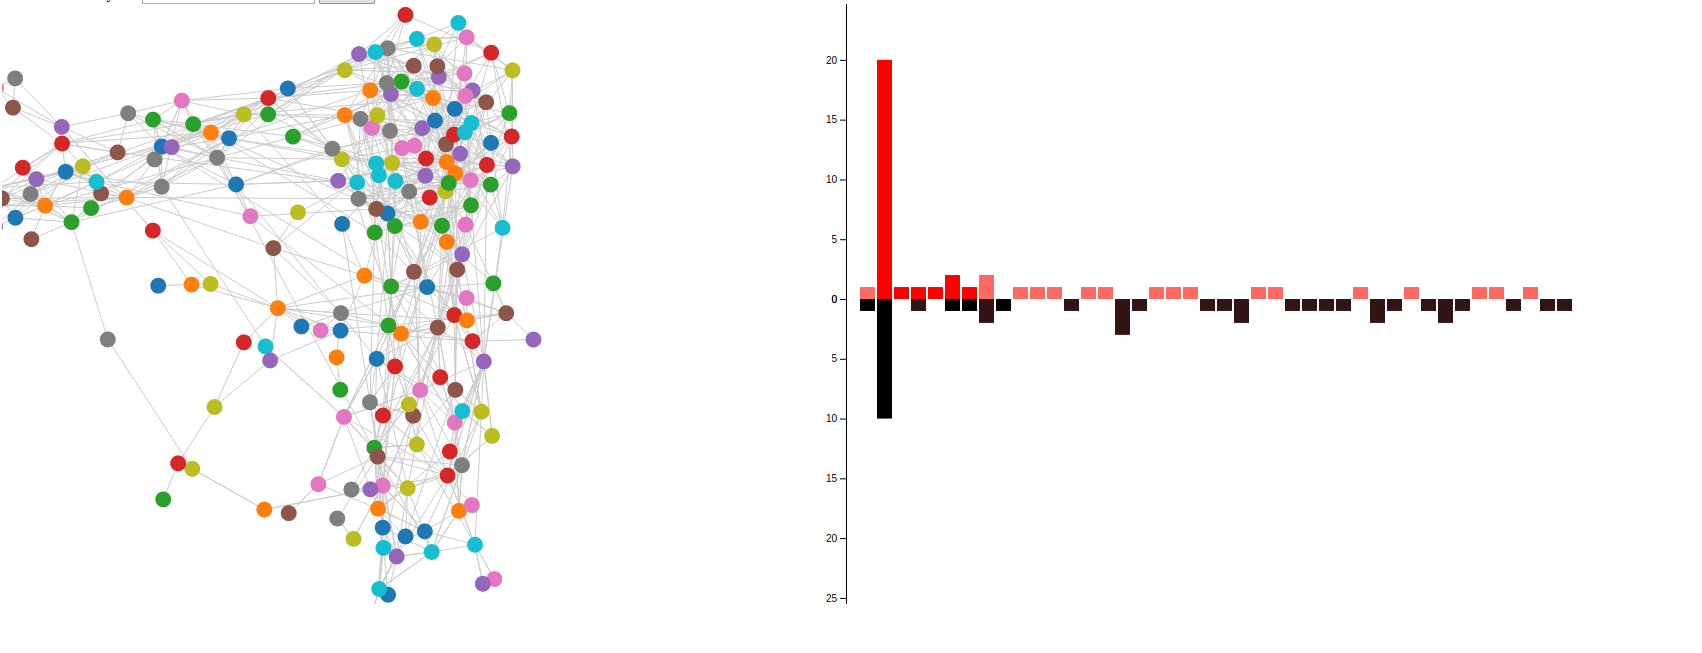
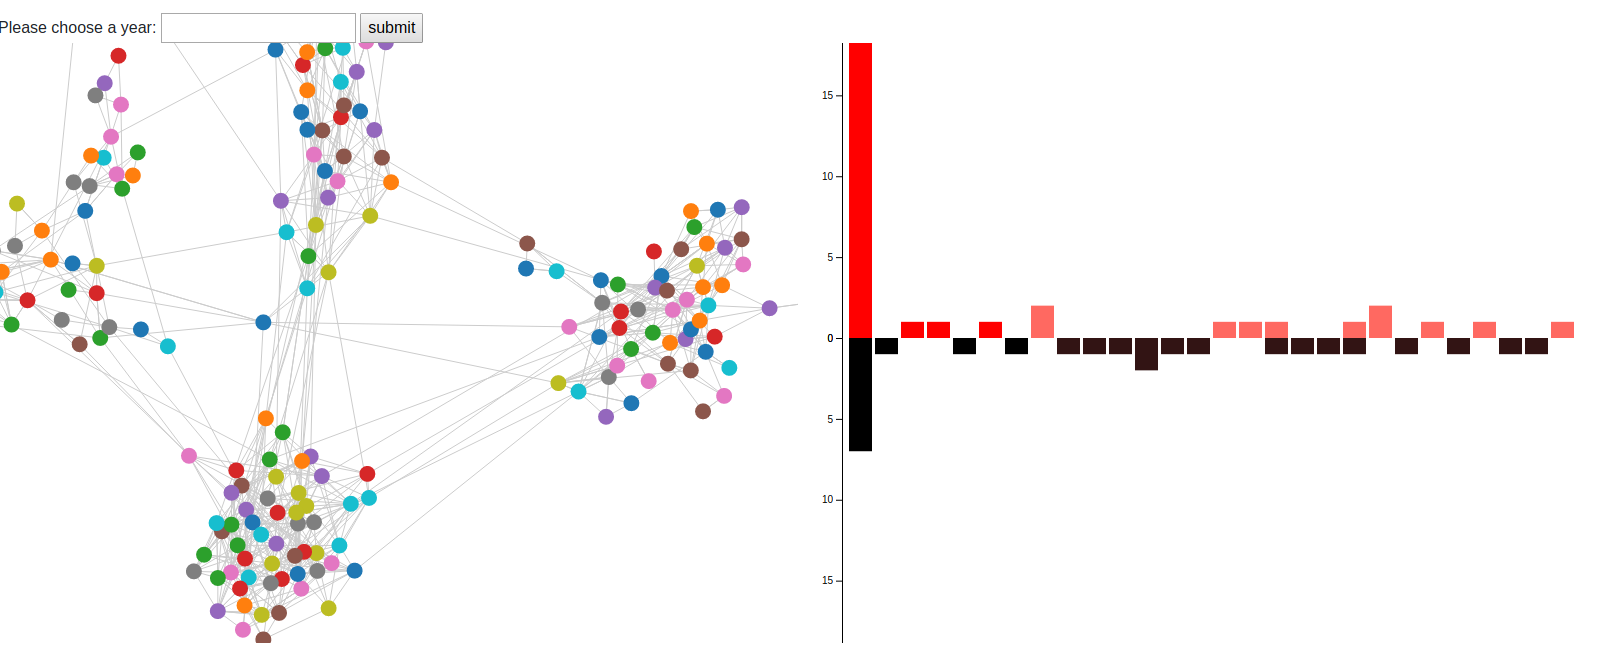
processbook

Changed region(s): [[0.0, 0.0, 0.9883, 0.9495], [0.4941, 0.8576, 0.525, 0.8882], [0.4941, 0.7351, 0.525, 0.7657]]

diff --git a/ProcessBook/ProcessBook.md b/ProcessBook/ProcessBook.md
@@ -93,6 +93,9 @@ This sketch contains the original design of part 2. What on the left is a force 
 ## Final Design
 Finally, our design contains three parts. With each part consists of some different chart type.
 
+Total:
+- navigate bar
+
 Part 1:
 - Heat map:
 - Bar chart:
@@ -103,9 +106,16 @@ Part 2:
 This screenshot shows the final design for the part2. Left part is a force directed graph, and a html submit which you can specify the year. The right part is a bidirectional bar graph showing the number of winning and the number of losing plus defending games for the team in different cities. The force directed graph only shows one years's data, but the win lose bar will show more years from [year-3, year+3], year is what you submit.
 
 - Force directed Graph
-    The force directed graph is dragable, means you can drag one node and move it to some place else. Each node will show a tooltip when mose is on.
+
+![forceTeam](img/forceDirectedGraph.png)
+
+    The force directed graph is dragable, means you can drag one node and move it to some place else. Each node will show a tooltip when mose is on showing the team of the node.
+
 - Bar chart
-    The winning is displayed in red. The losing and defending is displayed in black.
+
+![winlosebar](img/winLoseBar.png)
+
+    The winning is displayed in red. The losing and defending is displayed in black. However the showing of win or lose as guest or host will be slightly different. The color for guest win will be more like pink to show a slightly difference.
 
 Part 3:
 - Slope chart
